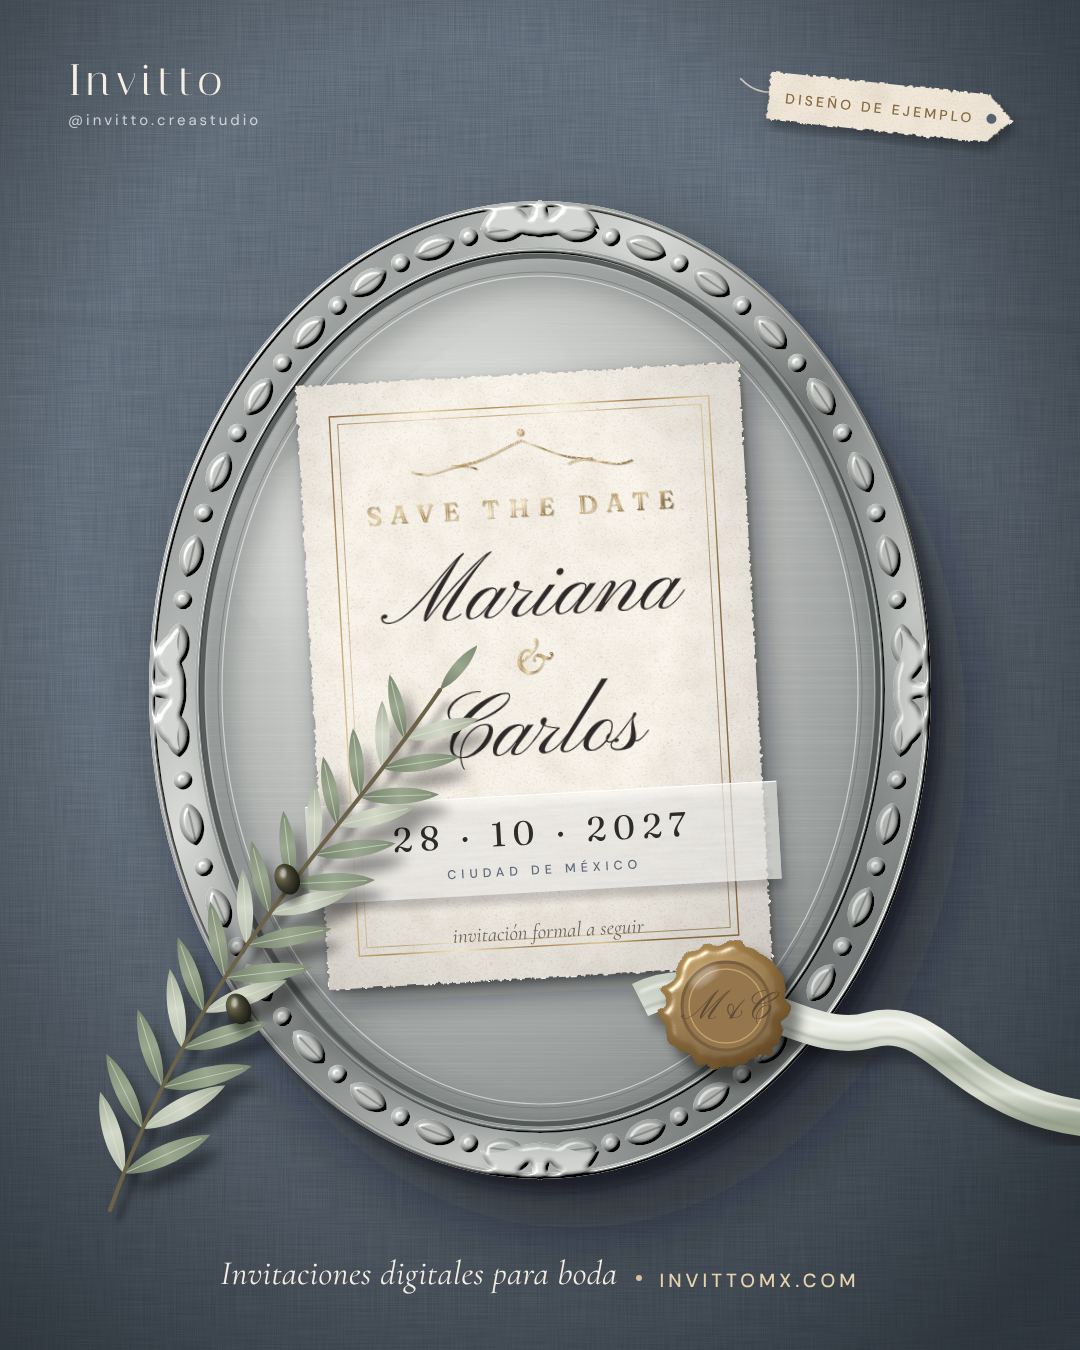
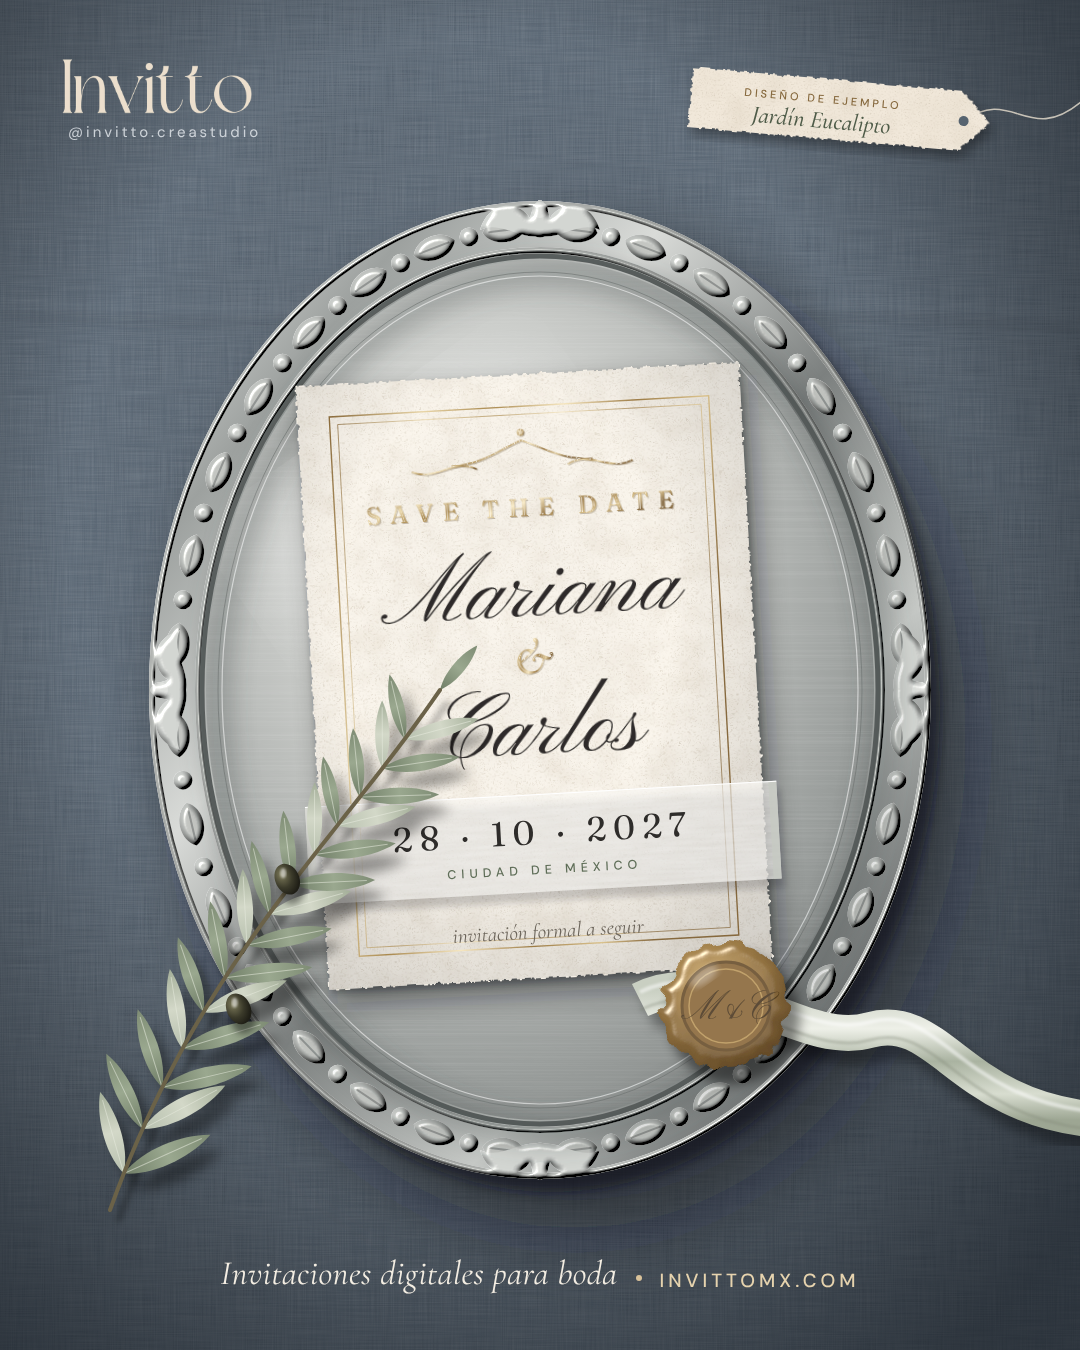
WIP: redesigned Invitto posts
Claude-Session: https://claude.ai/code/session_01EgrmTncf6G6khRgjzffLsV

Changed region(s): [[0.6111, 0.0311, 0.9472, 0.1244], [0.0611, 0.0311, 0.2444, 0.0933]]

diff --git a/invitto-posts/src/xv-2-funciones.html b/invitto-posts/src/xv-2-funciones.html
@@ -1,34 +1,105 @@
-<!doctype html><html><head><meta charset="utf-8"><link href="https://fonts.googleapis.com/css2?family=Fraunces:ital,opsz,wght@0,9..144,300;0,9..144,400;1,9..144,300;1,9..144,400&family=Alex+Brush&family=DM+Sans:wght@400;500&display=block" rel="stylesheet"><style>
-:root{--ch:#2E2C2A;--iv:#FAF5EC;--ivd:#F1E8DA;--g:#D9C29A;--gd:#86693E;--mu:#6E665C;--w:#5A1F2E}
-*{margin:0;padding:0;box-sizing:border-box}
-body{width:1080px;height:1350px;overflow:hidden;background:var(--iv);font-family:"DM Sans",sans-serif;color:var(--ch);position:relative}
-.serif{font-family:Fraunces,Georgia,serif}.script{font-family:"Alex Brush",cursive;word-spacing:14px}
-.frame{position:absolute;inset:36px;border:1.5px solid var(--g)}.frame2{position:absolute;inset:46px;border:1px solid rgba(217,194,154,.5)}
-.brand{position:absolute;top:84px;left:96px;display:flex;align-items:baseline;gap:14px}
-.brand b{font-family:Fraunces,serif;font-weight:400;font-size:34px;letter-spacing:1px}.brand span{font-size:17px;color:var(--mu);letter-spacing:1px}
-.center{text-align:center}
-</style></head><body><div class="frame"></div><div class="frame2"></div><div class="brand"><b>Invitto</b><span>@invitto.creastudio</span></div>
+<!doctype html><html><head><meta charset="utf-8">
+<link href="https://fonts.googleapis.com/css2?family=Fraunces:ital,opsz,wght@0,9..144,300;0,9..144,400;1,9..144,300;1,9..144,400&family=Pinyon+Script&family=Cormorant+Garamond:ital,wght@0,400;0,500;1,400;1,500&family=DM+Sans:wght@400;500&display=block" rel="stylesheet">
 <style>
-.kick{position:absolute;top:175px;width:100%;font-size:72px;color:var(--gd)}
-.h{position:absolute;top:258px;width:100%;font-size:80px;font-weight:300}
-.h i{color:var(--w)}
-.rows{position:absolute;top:400px;left:150px;right:150px}
-.row{display:flex;align-items:center;gap:36px;padding:15px 0;border-bottom:1px solid rgba(217,194,154,.6)}
-.row:last-child{border:0}
-.ic{width:76px;height:76px;border-radius:50%;background:var(--ivd);border:1px solid var(--g);display:flex;align-items:center;justify-content:center;flex:none}
-.lb{font-size:34px;font-weight:400}
-.cta{position:absolute;bottom:96px;left:50%;transform:translateX(-50%);background:var(--ch);color:var(--iv);padding:26px 54px;border-radius:60px;font-size:28px;white-space:nowrap;letter-spacing:.5px}
-.cta span{color:var(--g)}
-</style>
-<div class="kick script center">Mis XV años</div>
-<div class="h serif center">Todo en <i>un solo link</i></div>
-<div class="rows">
-<div class='row'><div class='ic'><svg width='44' height='44' viewBox='0 0 24 24' fill='none' stroke='#86693E' stroke-width='1.3' stroke-linecap='round' stroke-linejoin='round'><rect x="4" y="10" width="16" height="10" rx="1"/><path d="M3 7h18v3H3zM12 7v13M12 7c-2-4-6-3-5 0M12 7c2-4 6-3 5 0"/></svg></div><div class='lb serif'>Se abre como un regalo</div></div>
-<div class='row'><div class='ic'><svg width='44' height='44' viewBox='0 0 24 24' fill='none' stroke='#86693E' stroke-width='1.3' stroke-linecap='round' stroke-linejoin='round'><path d="M9 18V5l11-2v13"/><circle cx="6" cy="18" r="3"/><circle cx="17" cy="16" r="3"/></svg></div><div class='lb serif'>Con tu canción favorita</div></div>
-<div class='row'><div class='ic'><svg width='44' height='44' viewBox='0 0 24 24' fill='none' stroke='#86693E' stroke-width='1.3' stroke-linecap='round' stroke-linejoin='round'><circle cx="12" cy="13" r="8"/><path d="M12 9v4l3 2M10 2h4"/></svg></div><div class='lb serif'>Cuenta regresiva en vivo</div></div>
-<div class='row'><div class='ic'><svg width='44' height='44' viewBox='0 0 24 24' fill='none' stroke='#86693E' stroke-width='1.3' stroke-linecap='round' stroke-linejoin='round'><rect x="3" y="6" width="18" height="12" rx="2"/><path d="M7 10h6M7 14h4M17 6v12" stroke-dasharray="2 1.5"/></svg></div><div class='lb serif'>Pase con el nombre de cada familia</div></div>
-<div class='row'><div class='ic'><svg width='44' height='44' viewBox='0 0 24 24' fill='none' stroke='#86693E' stroke-width='1.3' stroke-linecap='round' stroke-linejoin='round'><path d="M4 20l1.3-3.9A8 8 0 1 1 8 19z"/><path d="M9 12l2 2 4-4"/></svg></div><div class='lb serif'>Confirman por WhatsApp</div></div>
-<div class='row'><div class='ic'><svg width='44' height='44' viewBox='0 0 24 24' fill='none' stroke='#86693E' stroke-width='1.3' stroke-linecap='round' stroke-linejoin='round'><path d="M12 21s-6-5.5-6-11a6 6 0 0 1 12 0c0 5.5-6 11-6 11z"/><circle cx="12" cy="10" r="2.2"/></svg></div><div class='lb serif'>Mapa e itinerario</div></div>
+:root{--ch:#2E2C2A;--iv:#FAF5EC;--ivd:#F1E8DA;--g:#D9C29A;--gd:#86693E;--w:#5A1F2E;--bl:#EFE3CF}
+*{margin:0;padding:0;box-sizing:border-box}
+body{width:1080px;height:1350px;overflow:hidden;position:relative;font-family:"DM Sans",sans-serif;color:var(--ch);
+ background:radial-gradient(ellipse 75% 60% at 50% 50%,#fbf6ee 0%,#f3eadb 60%,#e4d5bd 100%)}
+.linen{position:absolute;inset:0;background:repeating-linear-gradient(0deg,rgba(120,90,50,.035) 0 1px,transparent 1px 3px),repeating-linear-gradient(90deg,rgba(120,90,50,.03) 0 1px,transparent 1px 4px)}
+.grain{position:absolute;inset:0;filter:url(#paperF);opacity:.35;mix-blend-mode:multiply}
+.vig{position:absolute;inset:0;background:radial-gradient(ellipse 80% 70% at 50% 52%,transparent 55%,rgba(110,80,45,.22) 100%)}
+.foil{background:linear-gradient(100deg,#6f5530 0%,#a88550 20%,#e9d3a4 33%,#8e6f3f 45%,#c9a96f 60%,#f3e3bd 66%,#86693E 80%,#b8955c 100%);
+ -webkit-background-clip:text;background-clip:text;color:transparent}
+.brand{position:absolute;top:64px;left:0;right:0;display:flex;justify-content:space-between;padding:0 72px;align-items:baseline}
+.brand b{font-family:Fraunces,serif;font-weight:400;font-size:34px;letter-spacing:2px}
+.brand span{font-size:16px;letter-spacing:3px;color:#7a6f62}
+.head{position:absolute;top:120px;left:0;right:0;text-align:center}
+.head .s{font-family:"Pinyon Script",cursive;font-size:80px;line-height:1;padding:0 20px;display:inline-block}
+.head h1{font-family:Fraunces,serif;font-weight:300;font-size:82px;line-height:1;color:var(--w);letter-spacing:-1px;margin-top:-4px}
+.head h1 i{font-style:italic}
+.head p{font-family:"Cormorant Garamond",serif;font-style:italic;font-size:26px;color:#6e5a45;margin-top:12px}
+/* deckle card behind */
+.deck{position:absolute;left:340px;top:420px;width:400px;height:720px;transform:rotate(-5deg);background:linear-gradient(160deg,#fffcf6,#f4ead9);
+ filter:url(#deckle) drop-shadow(0 2px 2px rgba(90,60,30,.25)) drop-shadow(10px 22px 26px rgba(90,60,30,.25))}
+.deck2{position:absolute;left:350px;top:430px;width:390px;height:700px;transform:rotate(4deg);background:#efe3cf;
+ filter:url(#deckle) drop-shadow(0 2px 2px rgba(90,60,30,.2)) drop-shadow(8px 18px 20px rgba(90,60,30,.2))}
+.phone{position:absolute;left:390px;top:440px;width:300px;height:620px;border-radius:50px;padding:11px;z-index:5;
+ background:linear-gradient(135deg,#4a4642,#1b1a19 30%,#2e2c2a 60%,#0d0c0c);
+ box-shadow:0 2px 2px rgba(0,0,0,.35),12px 24px 26px rgba(70,45,20,.35),30px 60px 70px rgba(70,45,20,.35),inset 0 0 0 2px rgba(255,255,255,.12)}
+.screen{width:100%;height:100%;border-radius:40px;overflow:hidden;position:relative;background:radial-gradient(ellipse at 50% 25%,#7a2c3f,#5A1F2E 60%,#3d1420)}
+.notch{position:absolute;top:10px;left:50%;transform:translateX(-50%);width:86px;height:26px;border-radius:16px;background:#0d0c0c;z-index:3}
+.glare{position:absolute;inset:0;background:linear-gradient(120deg,rgba(255,255,255,.28),transparent 35%,transparent 75%,rgba(255,255,255,.08));z-index:4}
+.scr{position:absolute;inset:0;text-align:center;padding-top:150px;color:var(--bl)}
+.env{margin:0 auto;width:200px;height:136px;position:relative;background:linear-gradient(#f4ead9,#e6d6bc);border-radius:4px;box-shadow:0 10px 20px rgba(0,0,0,.35)}
+.env::before{content:"";position:absolute;inset:0;background:linear-gradient(to bottom right,transparent 49.5%,rgba(134,105,62,.35) 50%,transparent 51%),linear-gradient(to bottom left,transparent 49.5%,rgba(134,105,62,.35) 50%,transparent 51%);background-size:50% 100%;background-repeat:no-repeat;background-position:left,right}
+.env svg{position:absolute;left:50%;top:50%;transform:translate(-50%,-38%)}
+.scr .xv{font-family:"Pinyon Script",cursive;font-size:44px;margin-top:40px;line-height:1}
+.scr .nm{font-family:Fraunces,serif;font-weight:300;font-size:36px;margin-top:4px;color:#fff6ea}
+.scr .tap{margin-top:34px;font-size:11px;letter-spacing:4px;color:rgba(239,227,207,.75)}
+/* callouts */
+.co{position:absolute;width:270px;z-index:6}
+.co.l{text-align:right}.co.r{text-align:left}
+.co .ic{width:64px;height:64px;border-radius:50%;border:1px solid var(--g);display:inline-flex;align-items:center;justify-content:center;background:radial-gradient(circle at 35% 30%,#fffdf8,#f4ead9);box-shadow:0 1px 1px rgba(90,60,30,.2),0 8px 14px rgba(90,60,30,.12)}
+.co h3{font-family:Fraunces,serif;font-weight:400;font-size:28px;color:var(--w);margin-top:10px;line-height:1.05}
+.co p{font-family:"Cormorant Garamond",serif;font-style:italic;font-size:21px;color:#6e5a45;margin-top:4px;line-height:1.2}
+.lines{position:absolute;inset:0;z-index:4}
+.cta{position:absolute;left:50%;bottom:118px;transform:translateX(-50%);z-index:8;white-space:nowrap;padding:24px 50px;border-radius:60px;
+ background:radial-gradient(ellipse at 40% 20%,#7a2c3f,#5A1F2E 60%,#45141f);color:var(--bl);font-size:20px;letter-spacing:4px;
+ box-shadow:inset 0 1px 0 rgba(255,255,255,.18),inset 0 0 0 1px rgba(217,194,154,.5),0 3px 3px rgba(60,20,25,.3),0 16px 30px rgba(60,20,25,.3)}
+.cta b{font-weight:500;color:var(--g)}
+.foot{position:absolute;bottom:64px;left:0;right:0;text-align:center;font-size:14px;letter-spacing:5px;color:#7a6f62}
+.bot{position:absolute;z-index:1}
+</style></head><body>
+<svg width="0" height="0" style="position:absolute">
+ <filter id="paperF"><feTurbulence type="fractalNoise" baseFrequency="0.8" numOctaves="4" seed="5"/><feColorMatrix type="matrix" values="0 0 0 0 .5  0 0 0 0 .4  0 0 0 0 .28  0 0 0 -1.2 .75"/></filter>
+ <filter id="deckle" x="-5%" y="-5%" width="110%" height="110%"><feTurbulence type="fractalNoise" baseFrequency="0.09" numOctaves="3" seed="4"/><feDisplacementMap in="SourceGraphic" scale="9"/></filter>
+ <linearGradient id="gold" x1="0" y1="0" x2="1" y2="1"><stop offset="0" stop-color="#86693E"/><stop offset=".4" stop-color="#d9c29a"/><stop offset=".6" stop-color="#a88550"/><stop offset="1" stop-color="#c9ab74"/></linearGradient>
+ <filter id="blob" x="-20%" y="-20%" width="140%" height="140%"><feTurbulence type="fractalNoise" baseFrequency="0.05" numOctaves="2" seed="2"/><feDisplacementMap in="SourceGraphic" scale="8"/></filter>
+ <radialGradient id="wax" cx="38%" cy="34%" r="75%"><stop offset="0" stop-color="#a23a52"/><stop offset=".45" stop-color="#6d2236"/><stop offset="1" stop-color="#3b0f1b"/></radialGradient>
+</svg>
+<div class="linen"></div><div class="grain"></div><div class="vig"></div>
+
+<!-- botanical line art corners -->
+<svg class="bot" style="left:-30px;top:880px" width="300" height="420" viewBox="0 0 300 420"><g fill="none" stroke="#c4a877" stroke-width="1.2" stroke-linecap="round" opacity=".8">
+ <path d="M10 410C60 330 110 260 220 120"/><path d="M80 310c-40-10-60-40-60-70c30 10 55 35 60 70zM120 250c40-5 65-30 70-60c-30 5-60 30-70 60zM150 200c-35-15-50-45-45-75c28 15 45 45 45 75zM60 345c35 5 60 25 70 55c-30 0-60-20-70-55z"/>
+ <path d="M220 120c-14-6-30-2-34 12c-4 14 10 26 24 22c14-4 22-20 10-34zM218 122c-6 6-6 14 0 18c8 4 14-4 10-10M200 130c-10 16 0 34 18 34c20 0 30-18 22-34"/>
+ <path d="M220 120c10-14 30-20 40-10M232 160c14 8 30 6 40-6"/></g>
+ <g fill="#e9dcc3"><circle cx="40" cy="250" r="4"/><circle cx="185" cy="185" r="4"/><circle cx="100" cy="230" r="3"/></g></svg>
+<svg class="bot" style="right:-30px;top:330px;transform:scaleX(-1) rotate(180deg)" width="260" height="360" viewBox="0 0 300 420"><g fill="none" stroke="#c4a877" stroke-width="1.2" stroke-linecap="round" opacity=".7">
+ <path d="M10 410C60 330 110 260 220 120"/><path d="M80 310c-40-10-60-40-60-70c30 10 55 35 60 70zM120 250c40-5 65-30 70-60c-30 5-60 30-70 60zM150 200c-35-15-50-45-45-75c28 15 45 45 45 75z"/>
+ <path d="M220 120c-14-6-30-2-34 12c-4 14 10 26 24 22c14-4 22-20 10-34zM200 130c-10 16 0 34 18 34c20 0 30-18 22-34"/></g></svg>
+
+<div class="brand"><b class="foil">Invitto</b><span>@INVITTO.CREASTUDIO</span></div>
+<div class="head">
+ <div class="s foil">Todo en</div>
+ <h1>un solo <i>link</i></h1>
+ <p>Una invitación que se vive, no solo se lee.</p>
 </div>
-<div style="position:absolute;bottom:200px;width:100%;text-align:center;font-family:Fraunces,serif;font-style:italic;font-size:30px;color:var(--mu)">WhatsApp 668 358 6262</div><div class="cta">Cotiza por WhatsApp <span>·</span> invittomx.com</div>
+
+<div class="deck2"></div><div class="deck"></div>
+<div class="phone"><div class="screen"><div class="notch"></div>
+ <div class="scr">
+  <div class="env"><svg width="64" height="64" viewBox="0 0 200 200"><g filter="url(#blob)"><circle cx="100" cy="100" r="82" fill="url(#wax)"/></g><circle cx="100" cy="100" r="58" fill="none" stroke="#3b0f1b" stroke-width="5"/><text x="100" y="126" text-anchor="middle" font-family="Pinyon Script" font-size="84" fill="#3b0f1b">V</text><ellipse cx="70" cy="64" rx="22" ry="9" fill="#fff" opacity=".25" transform="rotate(-35 70 64)"/></svg></div>
+  <div class="xv foil" style="background:linear-gradient(100deg,#c9ab74,#fff3d6 40%,#d9c29a 60%,#f3e2bb);-webkit-background-clip:text;color:transparent">Mis XV años</div>
+  <div class="nm">Valentina</div>
+  <div class="tap">TOCA PARA ABRIR</div>
+ </div><div class="glare"></div></div></div>
+
+<svg class="lines" viewBox="0 0 1080 1350"><g fill="none" stroke="#b8955c" stroke-width="1" stroke-dasharray="1 0">
+ <path d="M318 520 H360 L398 540"/><path d="M318 760 H384"/><path d="M318 1000 H360 L398 980"/>
+ <path d="M762 520 H720 L682 540"/><path d="M762 760 H696"/><path d="M762 1000 H720 L682 980"/></g>
+ <g fill="#86693E"><circle cx="398" cy="540" r="4"/><circle cx="384" cy="760" r="4"/><circle cx="398" cy="980" r="4"/><circle cx="682" cy="540" r="4"/><circle cx="696" cy="760" r="4"/><circle cx="682" cy="980" r="4"/></g>
+ <g fill="none" stroke="#D9C29A"><circle cx="398" cy="540" r="9"/><circle cx="384" cy="760" r="9"/><circle cx="398" cy="980" r="9"/><circle cx="682" cy="540" r="9"/><circle cx="696" cy="760" r="9"/><circle cx="682" cy="980" r="9"/></g></svg>
+
+<!-- left callouts: icon right-aligned; line ends at x=318 -->
+<div class="co l" style="left:40px;top:470px"><span class="ic"><svg width="34" height="34" viewBox="0 0 34 34" fill="none" stroke="#86693E" stroke-width="1.3" stroke-linejoin="round"><rect x="5" y="14" width="24" height="16"/><rect x="3" y="9" width="28" height="5"/><path d="M17 9v21M17 9c-3-6-10-6-9-1c1 3 6 1 9 1zM17 9c3-6 10-6 9-1c-1 3-6 1-9 1z"/></svg></span><h3>Se abre como<br>un regalo</h3><p>Sobre y sello animados</p></div>
+<div class="co l" style="left:40px;top:712px"><span class="ic"><svg width="34" height="34" viewBox="0 0 34 34" fill="none" stroke="#86693E" stroke-width="1.3"><path d="M13 25V8l15-3v17"/><circle cx="9.5" cy="25" r="3.5"/><circle cx="24.5" cy="22" r="3.5"/><path d="M13 12l15-3"/></svg></span><h3>Tu canción<br>favorita</h3><p>Suena al abrirla</p></div>
+<div class="co l" style="left:40px;top:952px"><span class="ic"><svg width="34" height="34" viewBox="0 0 34 34" fill="none" stroke="#86693E" stroke-width="1.3" stroke-linecap="round"><path d="M10 4h14M10 30h14M11 4c0 8 12 9 12 13s-12 5-12 13M23 4c0 8-12 9-12 13s12 5 12 13"/><path d="M14 27c1-2 5-2 6 0"/></svg></span><h3>Cuenta<br>regresiva</h3><p>Días, horas y minutos</p></div>
+
+<div class="co r" style="left:770px;top:470px"><span class="ic"><svg width="34" height="34" viewBox="0 0 34 34" fill="none" stroke="#86693E" stroke-width="1.3"><path d="M4 9h26v6a3 3 0 0 0 0 6v6H4v-6a3 3 0 0 0 0-6z"/><path d="M12 9v18" stroke-dasharray="2 2"/><path d="M16 15h9M16 19h6"/></svg></span><h3>Pase con<br>nombre</h3><p>Lugares por invitado</p></div>
+<div class="co r" style="left:770px;top:712px"><span class="ic"><svg width="34" height="34" viewBox="0 0 34 34" fill="none" stroke="#86693E" stroke-width="1.3" stroke-linejoin="round"><path d="M17 4a13 13 0 0 0-11 20l-2 6 6-2A13 13 0 1 0 17 4z"/><path d="M12 17l4 4 7-8"/></svg></span><h3>Confirman por<br>WhatsApp</h3><p>En un solo toque</p></div>
+<div class="co r" style="left:770px;top:952px"><span class="ic"><svg width="34" height="34" viewBox="0 0 34 34" fill="none" stroke="#86693E" stroke-width="1.3"><path d="M17 31s-10-10-10-17a10 10 0 0 1 20 0c0 7-10 17-10 17z"/><circle cx="17" cy="14" r="3.5"/></svg></span><h3>Mapa e<br>itinerario</h3><p>Misa, recepción y vals</p></div>
+
+<div class="cta">COTIZA POR WHATSAPP · <b>INVITTOMX.COM</b></div>
+<div class="foot">668 358 6262 · DESDE $1,000 · TODO MÉXICO</div>
 </body></html>

diff --git a/invitto-posts/src/boda-1-savethedate.html b/invitto-posts/src/boda-1-savethedate.html
@@ -183,7 +183,7 @@ svg#scene{position:absolute;inset:0}
     <rect x="228" y="118" width="8" height="98" fill="#c6c9c2" opacity=".8"/>
     <line x1="-236" y1="118.5" x2="236" y2="118.5" stroke="#fff" stroke-width="1"/>
     <text x="0" y="168" text-anchor="middle" font-family="Fraunces" font-weight="400" font-size="34" letter-spacing="7" fill="#2E2C2A">28 · 10 · 2027</text>
-    <text x="0" y="198" text-anchor="middle" font-family="DM Sans" font-weight="500" font-size="12.5" letter-spacing="5" fill="#5E6B78">CIUDAD DE MÉXICO</text>
+    <text x="0" y="198" text-anchor="middle" font-family="DM Sans" font-weight="500" font-size="12.5" letter-spacing="5" fill="#5F6E58">CIUDAD DE MÉXICO</text>
   </g>
 </g>
 
@@ -211,17 +211,17 @@ svg#scene{position:absolute;inset:0}
 </g>
 
 <!-- PAPER TAG -->
-<g transform="translate(888 108) rotate(6)">
-  <path d="M -40 -6 C -90 -40, -110 20, -150 -14" stroke="#E8E0D0" stroke-width="1.6" fill="none" opacity=".8"/>
-  <path d="M -120 -24 h 220 l 26 24 l -26 24 h -220 z" fill="#000" opacity=".35" filter="url(#soft6)" transform="translate(4 7)"/>
-  <g filter="url(#deckle)"><path d="M -120 -24 h 220 l 26 24 l -26 24 h -220 z" fill="#F1E8DA"/></g>
-  <path d="M -120 -24 h 220 l 26 24 l -26 24 h -220 z" fill="#fff" filter="url(#grain)"/>
+<g transform="translate(860 112) rotate(5)">
+  <path d="M 104 0 C 150 -40, 170 20, 220 -30" stroke="#E8E0D0" stroke-width="1.6" fill="none" opacity=".8"/>
+  <path d="M -170 -30 h 270 l 30 30 l -30 30 h -270 z" fill="#000" opacity=".35" filter="url(#soft6)" transform="translate(4 7)"/>
+  <g filter="url(#deckle)"><path d="M -170 -30 h 270 l 30 30 l -30 30 h -270 z" fill="#F1E8DA"/></g>
+  <path d="M -170 -30 h 270 l 30 30 l -30 30 h -270 z" fill="#fff" filter="url(#grain)"/>
   <circle cx="104" cy="0" r="5" fill="#56636F"/>
-  <text x="-8" y="6" text-anchor="middle" font-family="DM Sans" font-weight="500" font-size="14" letter-spacing="3.2" fill="#86693E">DISEÑO DE EJEMPLO</text>
+  <text x="-38" y="-6" text-anchor="middle" font-family="DM Sans" font-weight="500" font-size="11" letter-spacing="3" fill="#86693E">DISEÑO DE EJEMPLO</text><text x="-38" y="19" text-anchor="middle" font-family="Cormorant Garamond" font-style="italic" font-weight="500" font-size="24" fill="#4F5C49">Jardín Eucalipto</text>
 </g>
 </svg>
 
-<div class="brand"><b>Invitto</b><span>@invitto.creastudio</span></div>
+<div class="brand"><img src="../assets/logo-crema.png" style="width:190px;display:block;margin-left:-6px"><span>@invitto.creastudio</span></div>
 <div class="foot"><i>Invitaciones digitales para boda</i><span class="dot"></span><b>INVITTOMX.COM</b></div>
 
 <script>
